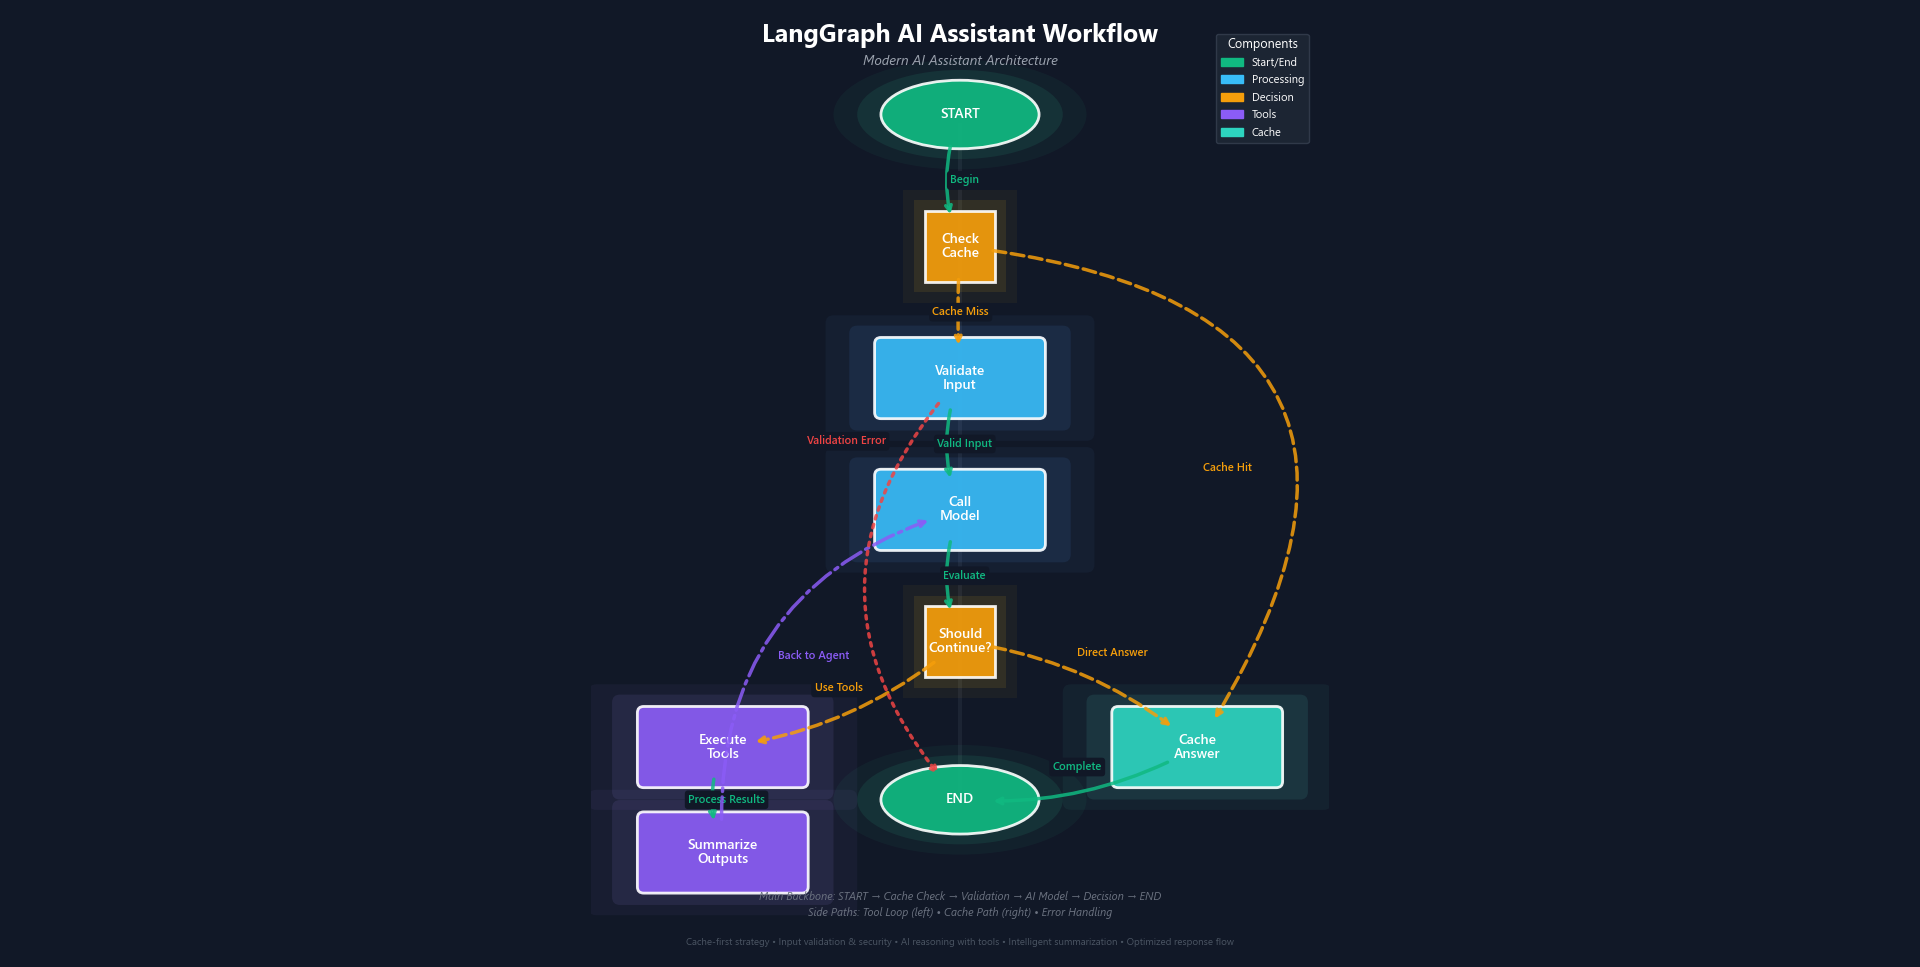
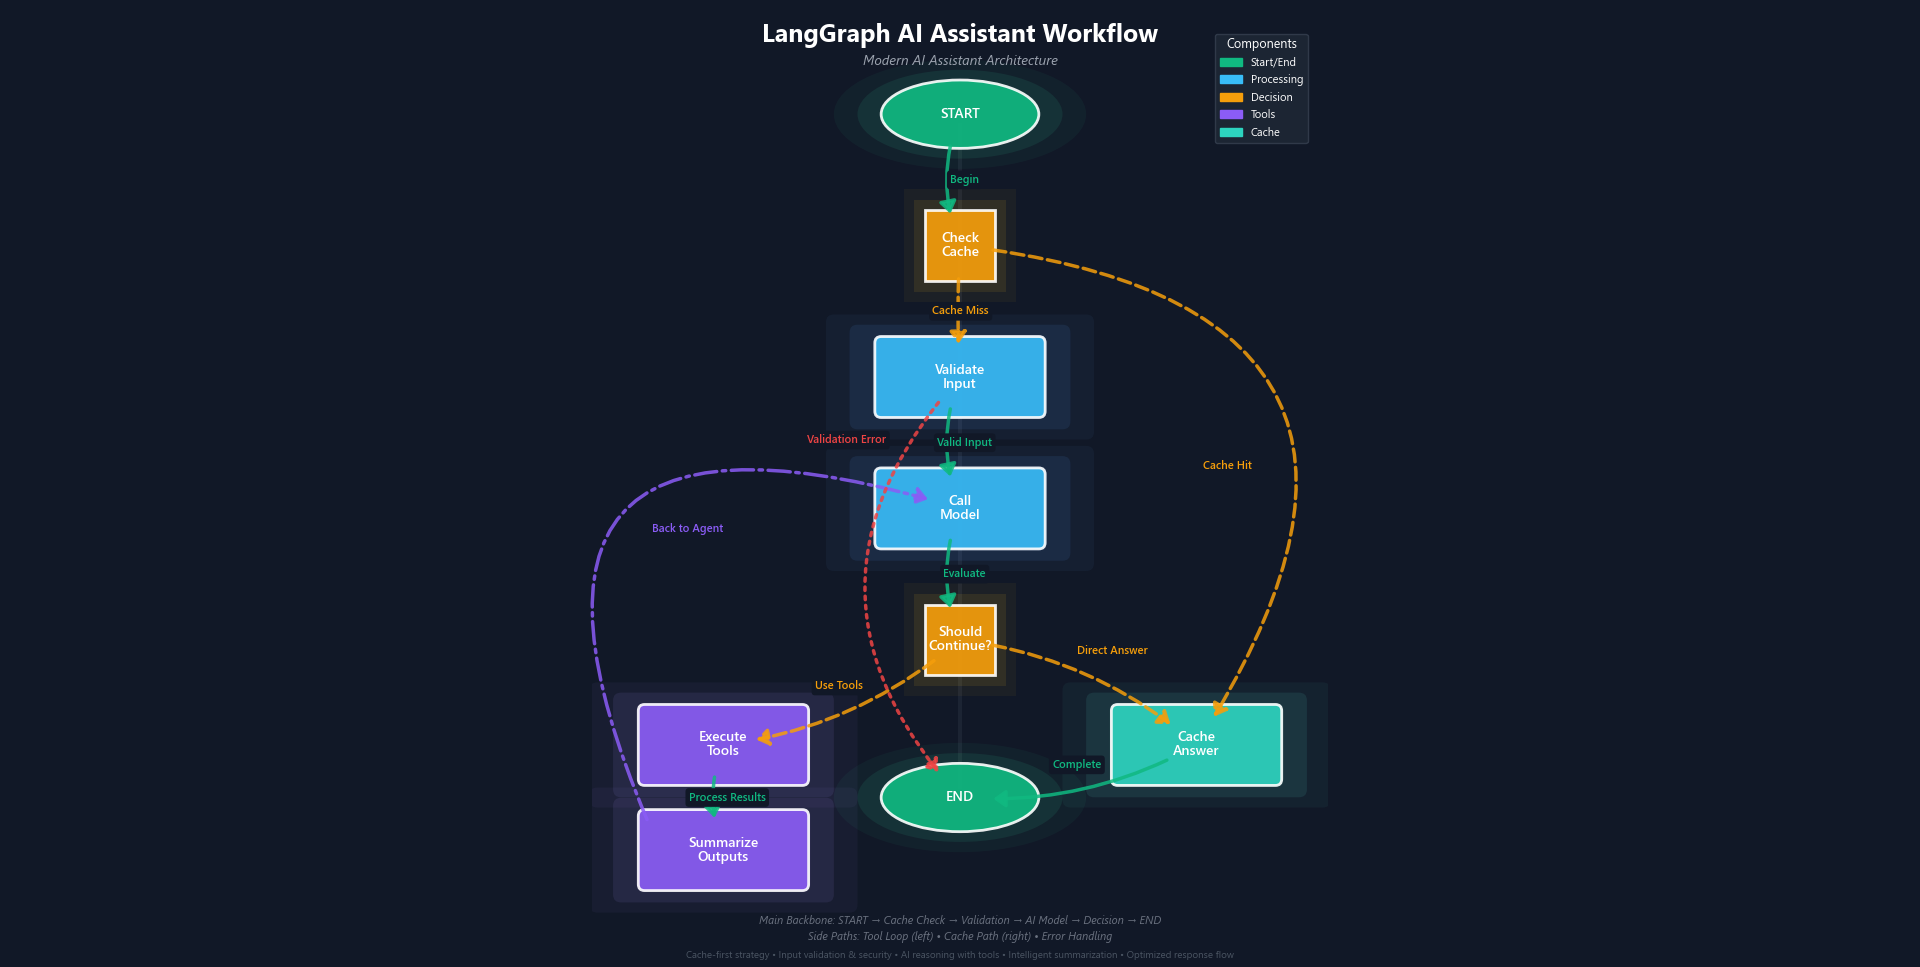
fix: fixed style of workflow

diff --git a/ai-service/visualize_graph.py b/ai-service/visualize_graph.py
@@ -165,9 +165,12 @@ class LangSmithStyleVisualizer:
         dx = x2 - x1
         dy = y2 - y1
         
-        # Özel routing
+        # Özel routing - Back to Agent oku için optimize edilmiş
         if edge_type == "loop":
-            connectionstyle = f'arc3,rad=-0.4'
+            # Kompakt ve zarif kavis - ana akışı bozmayan
+            connectionstyle = f'arc3,rad=-1.1'  # Sıkı ve temiz kavis
+            # Sol üst köşeye daha yakın başlangıç
+            x1 = x1 - 1.2  # Daha kompakt sol çıkış
         elif from_node == "check_cache" and to_node == "cache_answer":
             connectionstyle = f'arc3,rad=-0.8'  # Büyük kavis sol dışarıdan
         elif from_node == "validate_input" and to_node == "end":
@@ -181,7 +184,7 @@ class LangSmithStyleVisualizer:
         # Ok çizimi
         self.ax.annotate('', xy=(x2, y2), xytext=(x1, y1),
                         arrowprops=dict(
-                            arrowstyle='->',
+                            arrowstyle='-|>,head_length=0.7,head_width=0.5',  # İçi dolu büyük üçgen
                             connectionstyle=connectionstyle,
                             color=color,
                             linestyle=linestyle,
@@ -215,11 +218,11 @@ class LangSmithStyleVisualizer:
                     label_x = label_x - 2.8  # Sola taşı
                     label_y = label_y + 2.8  # Biraz yukarı
                 
-                # Özel pozisyonlama: Back to Agent etiketini sola al ve yukarı taşı
+                # Özel pozisyonlama: Back to Agent etiketini kompakt yola uygun ayarla
                 if from_node == "summarize_outputs" and to_node == "call_model" and label == "Back to Agent":
-                    label_x = label_x - 1.0  # Sola al
-                    label_y = label_y + 0.8  # Yukarı taşı
-                
+                    label_x = label_x - 3.5  # Daha sola al
+                    label_y = label_y + 3.9  # Daha yukarı taşı
+
                 # Özel pozisyonlama: Cache Hit etiketini sağa taşı
                 if from_node == "check_cache" and to_node == "cache_answer" and label == "Cache Hit":
                     label_x = label_x + 4.2  # Sağa taşı
@@ -274,9 +277,9 @@ class LangSmithStyleVisualizer:
         self.add_edge_with_line_breaking_label('check_cache', 'cache_answer', 'Cache Hit', 'conditional')
         self.add_edge_with_line_breaking_label('validate_input', 'end', 'Validation Error', 'error')
     
-    def save_visualization(self, filename: str = "langsmith_style_workflow.png",
+    def save_visualization(self, filename: str = "final_langsmith_workflow_v2.png",
                           title: str = "LangGraph AI Assistant Workflow"):
-        """LangSmith stil karanlık tema görselleştirme"""
+        """LangSmith stil karanlık tema görselleştirme - Nihai Versiyon"""
         
         # Grafik ayarları
         self.ax.set_xlim(-7, 7)
@@ -299,7 +302,7 @@ class LangSmithStyleVisualizer:
                                   color='#374151', linewidth=3, alpha=0.3, zorder=0)
         self.ax.add_line(backbone_line)
         
-        # LangSmith stil legend - minimal (title_fontcolor kaldırıldı)
+        # LangSmith stil legend - minimal
         legend_elements = [
             patches.Patch(color='#10B981', label='Start/End'),
             patches.Patch(color='#38BDF8', label='Processing'),
@@ -323,14 +326,14 @@ class LangSmithStyleVisualizer:
         workflow_info = """Main Backbone: START → Cache Check → Validation → AI Model → Decision → END
 Side Paths: Tool Loop (left) • Cache Path (right) • Error Handling"""
         
-        self.ax.text(0, -3, workflow_info, ha='center', va='center',
+        self.ax.text(0, -3.5, workflow_info, ha='center', va='center',
                     fontsize=8, color='#6B7280', style='italic',
                     linespacing=1.4)
         
         # Key Features - küçük font, az dikkat çekici
         key_features = """Cache-first strategy • Input validation & security • AI reasoning with tools • Intelligent summarization • Optimized response flow"""
         
-        self.ax.text(0, -3.7, key_features, ha='center', va='center',
+        self.ax.text(0, -4.0, key_features, ha='center', va='center',
                     fontsize=7, color='#4B5563')
         
         # Kaydet - yüksek kalite
@@ -340,27 +343,27 @@ Side Paths: Tool Loop (left) • Cache Path (right) • Error Handling"""
                    facecolor=self.background_color, edgecolor='none',
                    pad_inches=0.3)
         
-        print(f"🎨 LangSmith-style workflow saved: {output_path}")
-        print(f"🌙 Dark mode theme applied")
-        print(f"✨ Line-breaking labels integrated")
-        print(f"🎯 SaaS monitoring interface aesthetic achieved")
+        print(f"🎨 Final LangSmith-style workflow saved: {output_path}")
+        print(f"🌙 Dark mode theme perfected")
+        print(f"✨ Compact Back to Agent arrow optimized")
+        print(f"🎯 Professional presentation-ready quality achieved")
         plt.show()
         return output_path
 
 def main():
     """Ana fonksiyon"""
-    print("🌙 LangSmith-Style Dark Mode Workflow Visualizer")
-    print("=" * 55)
-    print("🎨 Creating modern SaaS monitoring interface aesthetic")
-    print("✨ Applying line-breaking label technique")
-    print("🎯 Professional dark theme with neon-pastel colors")
+    print("🌙 Final LangSmith-Style Dark Mode Workflow Visualizer")
+    print("=" * 60)
+    print("🎨 Creating presentation-ready SaaS monitoring interface")
+    print("✨ Optimizing Back to Agent arrow for perfect balance")
+    print("🎯 Professional dark theme with perfect visual hierarchy")
     print()
     
     try:
         visualizer = LangSmithStyleVisualizer()
         visualizer.create_langsmith_workflow()
         path = visualizer.save_visualization()
-        print(f"🎉 Successfully created LangSmith-style workflow: {path}")
+        print(f"🎉 Successfully created FINAL LangSmith-style workflow: {path}")
         
     except Exception as e:
         print(f"❌ Error: {e}")
